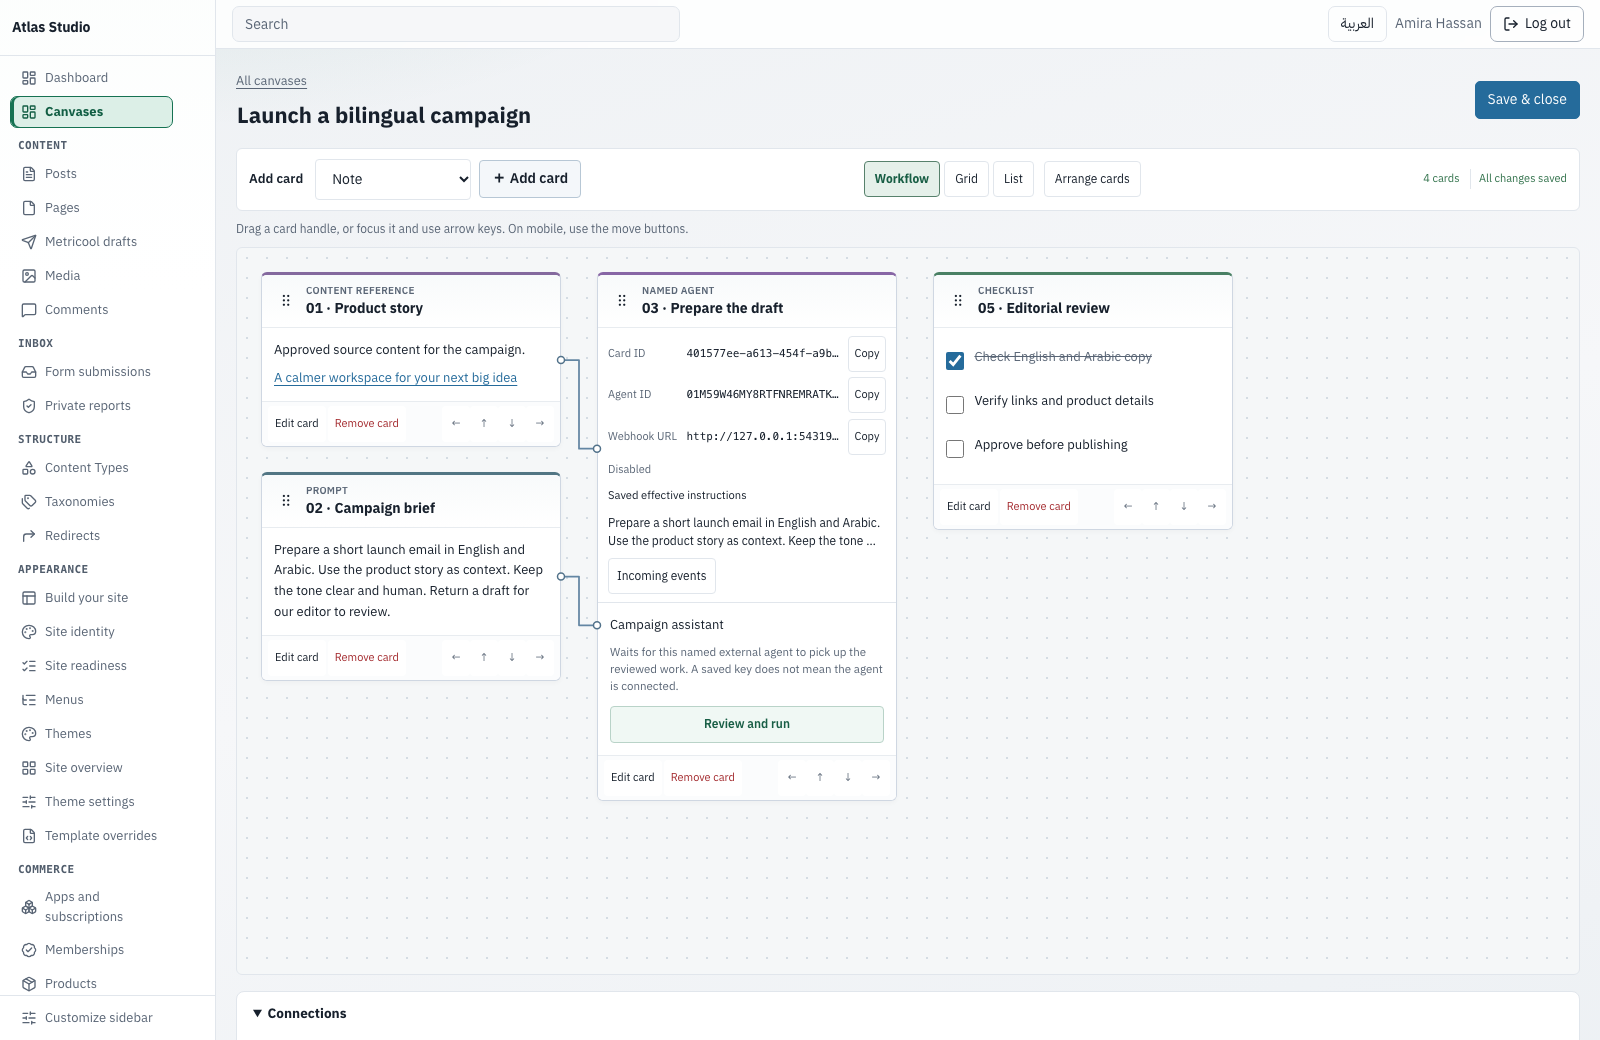
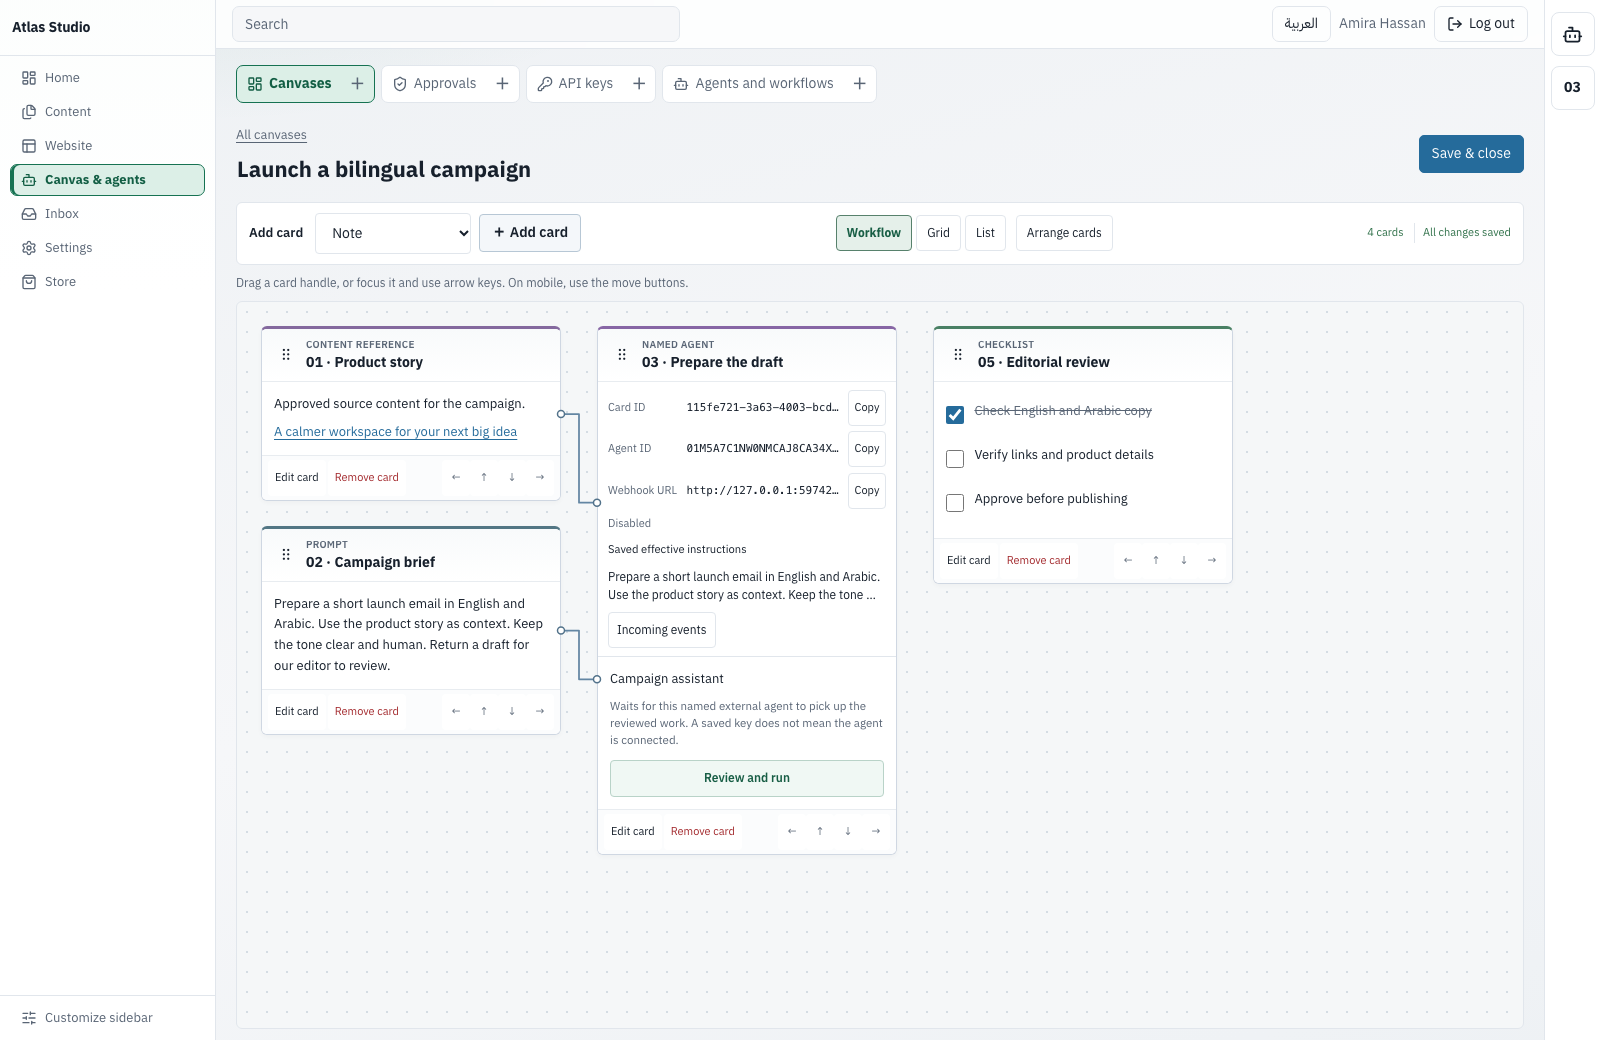
Refresh README for grouped navigation and agent drawer

diff --git a/e2e/tests/readme-screenshots.spec.ts b/e2e/tests/readme-screenshots.spec.ts
@@ -173,6 +173,48 @@ test('capture current README product screens with synthetic campaign data', asyn
   expect((await moves.boundingBox())!.height).toBeGreaterThanOrEqual(44);
   await page.setViewportSize({width:1600,height:1040});
   await setLocale(page,'en');
+  // Capture the released shell and read-only agent projection using the same
+  // real, permission-scoped campaign above, never an invented online state.
+  await page.setViewportSize({width:1440,height:800});
+  await page.goto('/admin/content/post');
+  await expect(page.locator('[data-navigation-context="content"]')).toBeVisible();
+  await expect(page.locator('[data-navigation-sections] [data-navigation-section]')).toHaveCount(7);
+  const dock=page.locator('[data-agents-dock]'),drawer=dock.locator('dialog');
+  await expect(dock.locator('[data-dock-open]')).toBeVisible();
+  await shot('admin-navigation-en.png');
+  const runsDB=db(),runsBefore=(runsDB.prepare('SELECT count(*) n FROM admin_canvas_runs').get() as any).n;runsDB.close();
+  await dock.locator('[data-dock-open]').click();
+  await drawer.locator('[data-dock-list] button').filter({hasText:'03 · Prepare the draft'}).click();
+  await expect(drawer.locator('[data-dock-detail]')).toContainText('Campaign assistant');
+  await expect(drawer.locator('[data-dock-detail]')).toContainText('Configured · review before running');
+  await expect(drawer.locator('[data-dock-detail]')).toContainText('An external client must be connected');
+  await expect(drawer.locator('[data-dock-detail]')).not.toContainText(agent);
+  await shot('agents-drawer-en.png');
+  await drawer.locator('[data-dock-close]').click();
+  await setLocale(page,'ar');
+  await shot('admin-navigation-ar.png');
+  await dock.locator('[data-dock-open]').click();
+  await drawer.locator('[data-dock-list] button').filter({hasText:'03 · Prepare the draft'}).click();
+  await expect(drawer.locator('[data-dock-detail]')).toContainText('Campaign assistant');
+  await shot('agents-drawer-ar.png');
+  await drawer.locator('[data-dock-close]').click();
+  await page.setViewportSize({width:390,height:844});
+  await page.locator('[data-sidebar-toggle]').click();
+  await expect(page.locator('#admin-sidebar')).toBeVisible();
+  await shot('admin-navigation-ar-mobile.png');
+  // Opening the opposite drawer must dismiss the primary mobile menu.
+  await dock.locator('[data-dock-open]').click();
+  await expect(page.locator('[data-sidebar-toggle]')).toHaveAttribute('aria-expanded','false');
+  await drawer.locator('[data-dock-list] button').filter({hasText:'03 · Prepare the draft'}).click();
+  await drawer.getByRole('tab',{name:'التعليمات',exact:true}).click();
+  await expect(drawer.getByRole('tabpanel',{name:'التعليمات',exact:true})).toContainText(cards[1].body!);
+  await expect(page.locator('body')).not.toContainText('Internal Server Error');
+  expect(await page.evaluate(()=>document.documentElement.scrollWidth>innerWidth)).toBe(false);
+  await shot('agents-drawer-ar-mobile.png');
+  await drawer.locator('[data-dock-close]').click();
+  const afterDockDB=db();expect((afterDockDB.prepare('SELECT count(*) n FROM admin_canvas_runs').get() as any).n).toBe(runsBefore);afterDockDB.close();
+  await page.setViewportSize({width:1600,height:1040});
+  await setLocale(page,'en');
   await page.goto('/admin/agents/keys');
   await expect(page.locator('#k-plaintext')).toHaveCount(0);
   await shot('agent-keys-en.png');

diff --git a/README.ar.md b/README.ar.md
@@ -32,11 +32,19 @@
   </tr>
 </table>
 
+### مساحة عمل منظمة
+
+تجمع القائمة الرئيسية الأدوات في ما يصل إلى ستة أقسام، وتظهر تبويبات الصفحات فوق الشاشة التي تستخدمها بحسب صلاحياتك. يضيف المتجر قسمًا سابعًا اختياريًا عند توفر أدوات تجارة مسموح بها. تبقى إعدادات الظهور والترتيب وتثبيت الأدوات خاصة بحسابك، وتنعكس الواجهة للعربية.
+
+![أقسام GoRun 0.6 المنظمة وتبويبات المحتوى وشريط الوكلاء المقابل بالعربية](assets/branding/screenshots/admin-navigation-ar.png)
+
+الصور من موقع تجريبي معزول بمحتوى خيالي. [قائمة الأقسام على الموبايل بالعربية](assets/branding/screenshots/admin-navigation-ar-mobile.png) · [دليل مساحة العمل](docs/ADMIN_WORKSPACE.md).
+
 ### للوكلاء
 
-1. أنشئ مفتاحًا من نوع **AI agent** من **وكلاء الذكاء الاصطناعي ← مفاتيح API** بالنطاقات (scopes) التي يحتاجها فقط.
+1. أنشئ مفتاحًا من نوع **AI agent** من **الكانفس والوكلاء ← مفاتيح API** بالنطاقات (scopes) التي يحتاجها فقط.
 2. وجّه عميل MCP إلى `https://your-site.example/mcp` (أو شغّل `gorun mcp` محليًا عبر stdio).
-3. راجع الطلبات الحساسة من **وكلاء الذكاء الاصطناعي ← الموافقات**؛ ويستعلم الوكيل عن النتيجة بالأداة `check_approval`.
+3. راجع الطلبات الحساسة من **الكانفس والوكلاء ← الموافقات**؛ ويستعلم الوكيل عن النتيجة بالأداة `check_approval`.
 
 - **حدود واضحة من الأساس.** لا يتجاوز المفتاح صلاحيات دور صاحبه، ولا يفعل إلا ما تسمح به نطاقاته.
 - **البشر يوافقون على الخطوات الحساسة.** النشر والحذف وتغيير الإعدادات وتعديل المحتوى المنشور تنتظر موافقة بشرية افتراضيًا. لا تستطيع مفاتيح الوكلاء استخدام REST للموافقة على طلباتها، والموافقة الذاتية نطاق مستقل لا يمنحه `*`.
@@ -66,7 +74,7 @@ If a tool requests approval, report its request ID and wait for the decision.
 
 ### اللوحات (Canvases)
 
-اللوحات (**لوحة التحكم ← اللوحات**) مساحة عمل تشغيلية، وليست أداة لتصميم الصفحات.
+اللوحات (**الكانفس والوكلاء ← اللوحات**) مساحة عمل تشغيلية، وليست أداة لتصميم الصفحات.
 
 ![يُرسَل محتوى مختار وتعليمات إلى وكيل متصل، وتصبح النتيجة ملاحظة خاصة جديدة لمراجعتك](assets/branding/reviewed-workflow.svg)
 
@@ -77,6 +85,14 @@ If a tool requests approval, report its request ID and wait for the decision.
 - **صلاحيات صريحة للوكلاء.** أنت تحدد العناصر التي يستطيع كل وكيل قراءتها أو الإضافة إليها أو التشغيل عليها في كل لوحة.
 
 تعرض بطاقة الوكيل أو المزود معرّفها وهوية الوكيل أو المزود المختار، مع رابط استقبال لحدث موقّع يطابق الأمر المحفوظ والتعليمات التي راجعتها. تبدأ قواعد الأحداث الواردة غير مفعلة، وتحتاج إلى مراجعة وتفعيل صريحين. ويظل الوكيل الخارجي بحاجة إلى عميل MCP يعمل لديه. [إعداد أحداث اللوحة](docs/CANVASES.md#incoming-events-on-agent-and-provider-cards).
+
+#### مهامك المحفوظة في متناولك
+
+يفتح شريط الوكلاء المقابل بطاقات كانفسك الخاصة. راجع **التكاملات** و**التعليمات** و**الافتراضيات**، ثم افتح البطاقة الأصلية للضبط والمراجعة. الدرج يقرأ الإعدادات المحفوظة ولا يشغّل الوكيل عند فتحه. حالة **مُعَدّ** لا تعني اتصالًا حيًا؛ الوكيل الخارجي يحتاج عميله المتصل.
+
+![درج الوكلاء بالعربية يعرض مساعد الحملة الخارجي وهويته وحالته وحدود القراءة فقط](assets/branding/screenshots/agents-drawer-ar.png)
+
+[درج التعليمات بالعربية على الموبايل](assets/branding/screenshots/agents-drawer-ar-mobile.png). هذا الدرج لا يجمع Skills وخوادم MCP متعددة ولا يتحقق من جاهزيتها.
 
 #### قصة حملة من الفكرة إلى المراجعة
 

diff --git a/README.md b/README.md
@@ -66,6 +66,14 @@ GoRun Edge is being developed as a separate Workers-based edition. The current m
 - **A complete editorial workflow.** Structured content, drafts, reviews, scheduled publishing, revision history and explicit staff permissions.
 - **Agents with boundaries.** MCP tools, scoped agent keys, human approvals for sensitive changes and an audit trail. Separate REST keys serve other integrations.
 
+## A workspace that stays organized
+
+Up to six primary sections keep related tools together, with contextual page tabs above the screen you are using. You see the tools your permissions allow; Store adds an optional seventh section when permitted commerce tools are available. Personal visibility, navigation order and dashboard pins stay yours.
+
+![GoRun 0.6 content workspace with grouped sections, contextual page tabs and the opposite-side agents rail](assets/branding/screenshots/admin-navigation-en.png)
+
+The screenshots use an isolated demo site with fictional content. The layout mirrors for Arabic and stays usable on mobile. [Arabic mobile menu](assets/branding/screenshots/admin-navigation-ar-mobile.png) · [Workspace guide](docs/ADMIN_WORKSPACE.md).
+
 ## Measured, with context
 
 In a controlled minimal article test at **50 requests/s**, median run p95 latency was **2.66 ms for GoRun**, **16.85 ms for WordPress + MariaDB**, and **0.66 ms for Astro static + Nginx**. Sampled peak working set was **114.54 MiB**, **203.78 MiB**, and **4.09 MiB**, respectively.
@@ -95,6 +103,14 @@ Connect an MCP client with an **AI agent** key. Its scopes are bounded by its ow
 Canvases bring selected content, instructions and agent results into one workspace. Results become private notes for review and do not publish content automatically. Configure your provider or agent connection before running it.
 
 Each agent or provider card shows its own ID and selected agent/provider identity, with a signed webhook matched to a saved command and reviewed instructions. Incoming-event rules start disabled and require explicit review and enablement; external agents still need their MCP client running. [Configure canvas events](docs/CANVASES.md#incoming-events-on-agent-and-provider-cards).
+
+### Your saved actions, within reach
+
+The opposite-side agents rail opens your own canvas cards. Inspect **Integrations**, **Instructions** and **Defaults**, then open the original card to configure or review it. The drawer reads saved configuration; opening it does not run an agent. **Configured** does not mean online, and an external agent still needs its connected client.
+
+![Agent drawer showing a named external campaign assistant, configured status and read-only details](assets/branding/screenshots/agents-drawer-en.png)
+
+[Arabic mobile drawer](assets/branding/screenshots/agents-drawer-ar-mobile.png). Skills and multiple MCP-server resources are not assembled or verified by this drawer.
 
 ### A campaign, from brief to review
 
